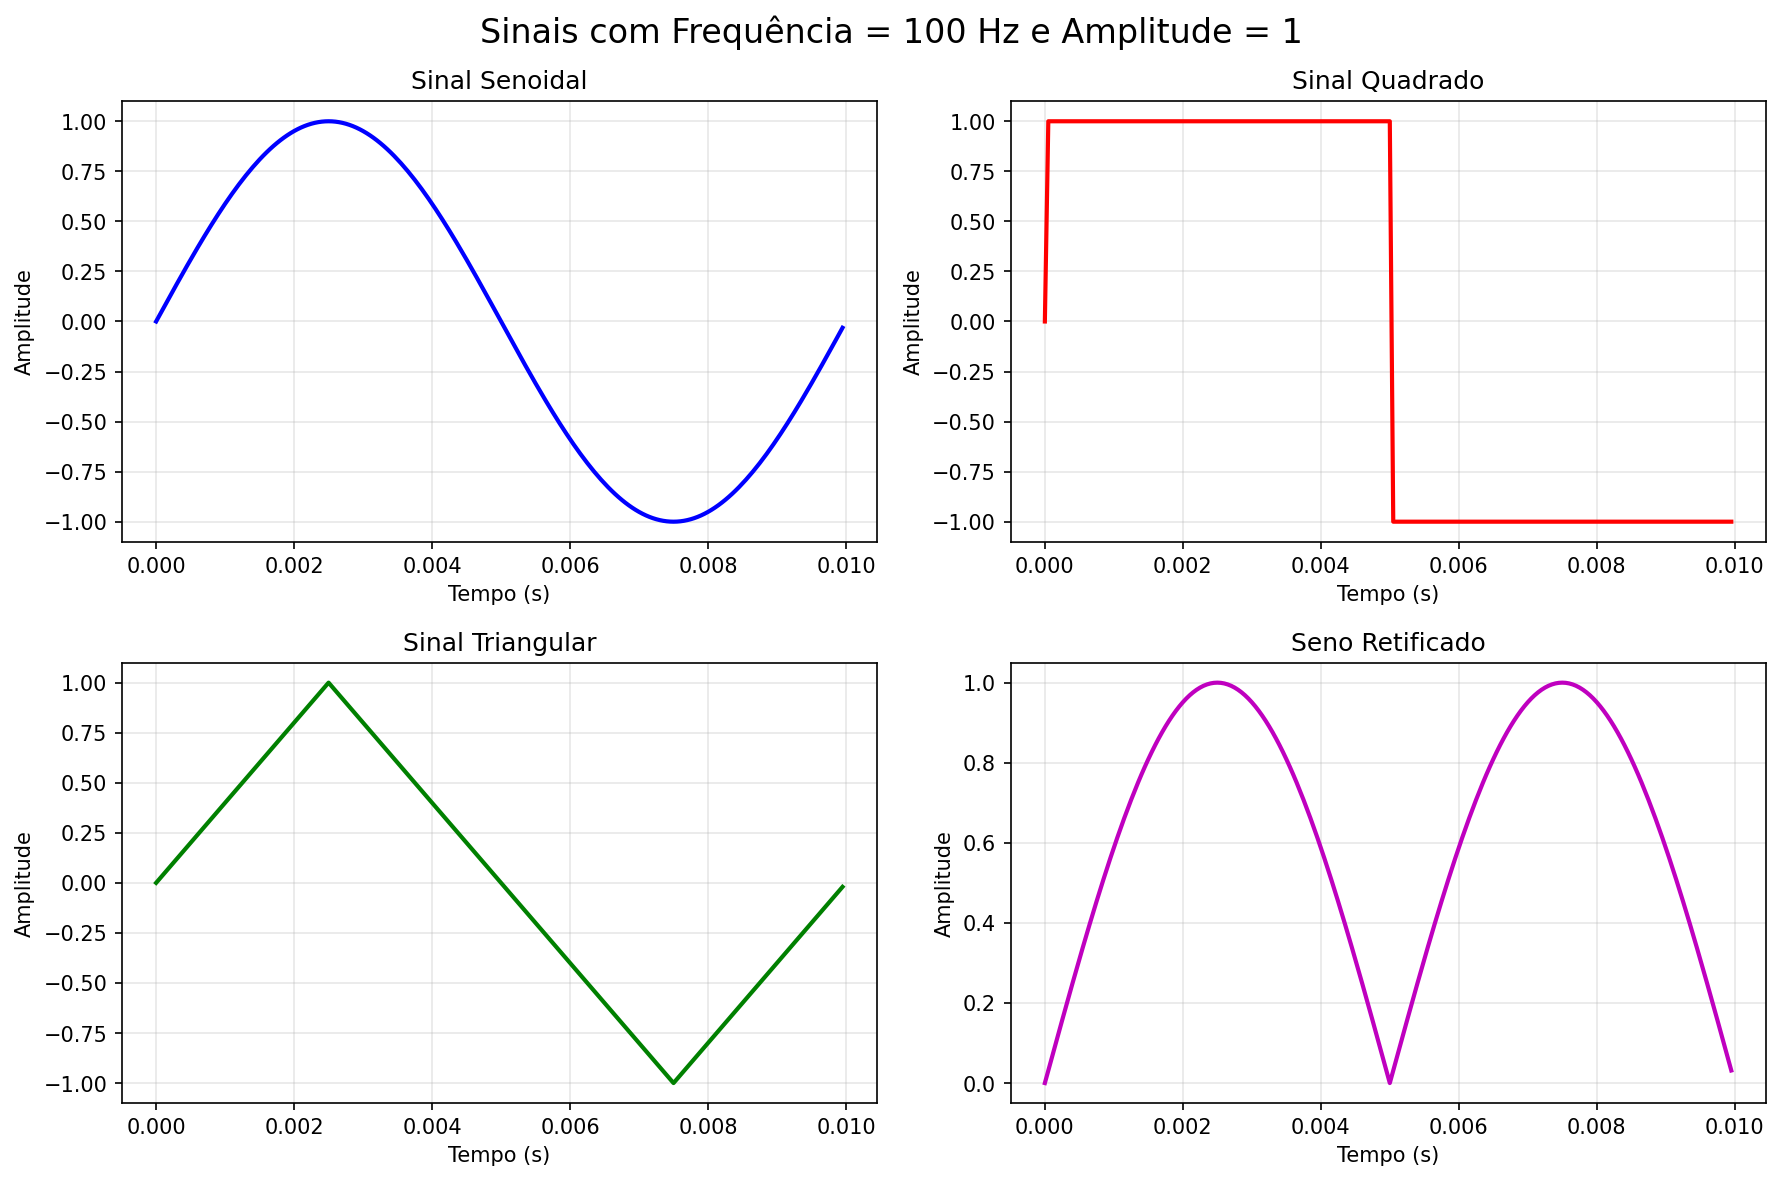
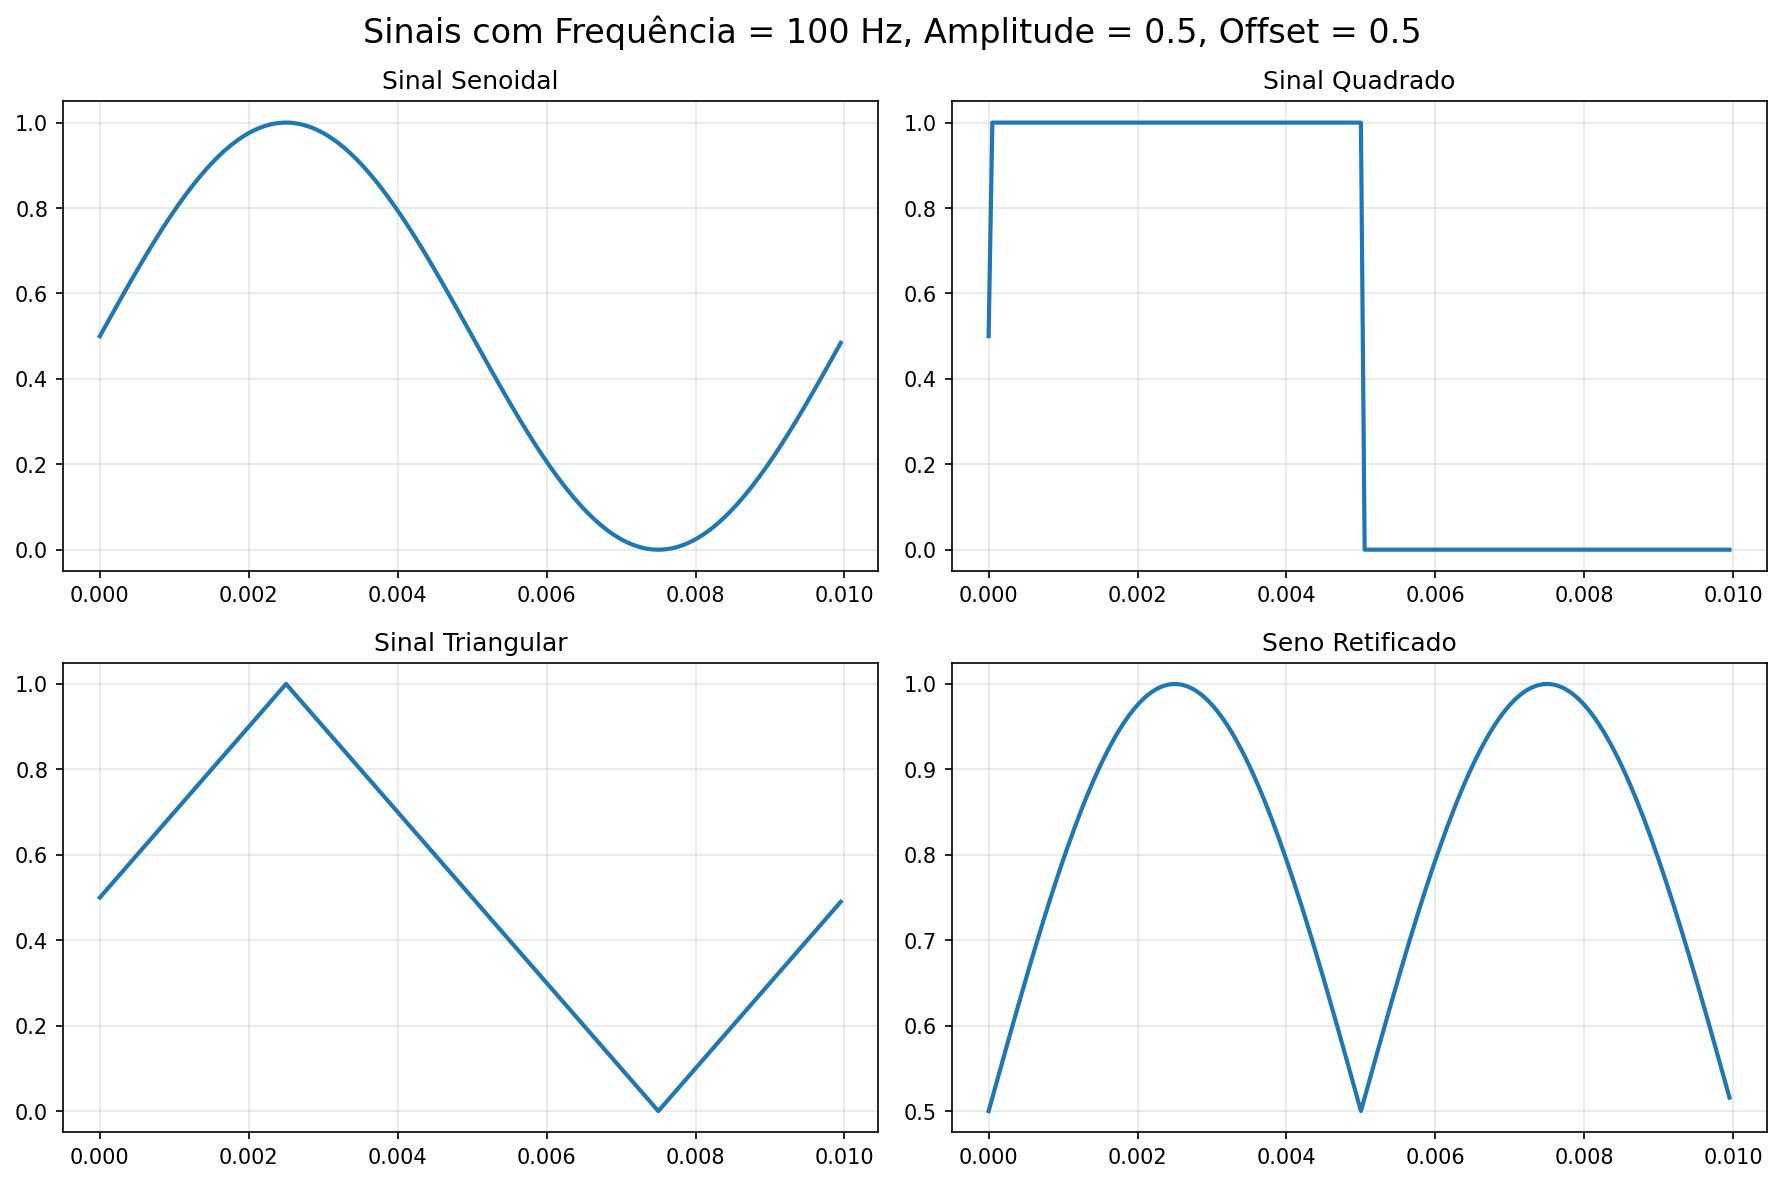
fazendo com que o sinal de ref sejá positivo

diff --git a/wave-table/main.py b/wave-table/main.py
@@ -1,33 +1,16 @@
 import numpy as np
 import matplotlib.pyplot as plt
 
-freq = 100  # Frequencia do sinal gerado
-amplitude = 1
-fs = 20 * (10**3) # Frequência de amostragem (vai ser igual a freq de controle) 
-duracao = 1  
-t = np.linspace(0, duracao/freq, int(fs/freq), endpoint=False)
-
-print(f"Gerando sinais com frequência: {freq} Hz")
-print(f"Amplitude: {amplitude}")
-print(f"Número de amostras por período: {len(t)}")
-
-
-sinal_seno = amplitude * np.sin(2 * np.pi * freq * t)
-sinal_quadrado = amplitude * np.sign(np.sin(2 * np.pi * freq * t))
-sinal_triangular = (2 * amplitude / np.pi) * np.arcsin(np.sin(2 * np.pi * freq * t))
-sinal_seno_retificado = amplitude * np.abs(np.sin(2 * np.pi * freq * t))
-
 def salvar_array_c(nome_arquivo, array, nome_variavel="data"):
     """
-    Salva um array numpy no formato C (array de arrays)
+    Salva um array numpy no formato C (array de floats)
     """
     with open(nome_arquivo, 'w') as f:
         f.write(f"// Array: {nome_variavel}\n")
         f.write(f"// Tamanho: {len(array)}\n")
         f.write(f"const float {nome_variavel}[{len(array)}] = {{\n")
         
-        # Escreve os valores formatados
-        for i in range(0, len(array), 5):  # 5 valores por linha
+        for i in range(0, len(array), 5):
             linha = array[i:i+5]
             valores_formatados = [f"{val:.6f}f" for val in linha]
             f.write("    " + ", ".join(valores_formatados))
@@ -38,35 +21,54 @@ def salvar_array_c(nome_arquivo, array, nome_variavel="data"):
         
         f.write("};\n")
 
+freq = 100
+amplitude = 0.5
+offset = 0.5     # ======= OFFSET =========
+
+fs = 20 * (10**3)
+duracao = 1
+t = np.linspace(0, duracao / freq, int(fs / freq), endpoint=False)
+
+print(f"Gerando sinais com frequência: {freq} Hz")
+print(f"Amplitude: {amplitude}")
+print(f"Número de amostras por período: {len(t)}")
+
+# Sinais antes do offset
+sinal_seno = amplitude * np.sin(2 * np.pi * freq * t)
+sinal_quadrado = amplitude * np.sign(np.sin(2 * np.pi * freq * t))
+sinal_triangular = (2 * amplitude / np.pi) * np.arcsin(np.sin(2 * np.pi * freq * t))
+sinal_seno_retificado = amplitude * np.abs(np.sin(2 * np.pi * freq * t))
+
+# ===== APLICANDO OFFSET =====
+sinal_seno += offset
+sinal_quadrado += offset
+sinal_triangular += offset
+sinal_seno_retificado += offset
+
+# Salvando
 salvar_array_c('sinal_seno_c.txt', sinal_seno, "sinal_seno")
 salvar_array_c('sinal_quadrado_c.txt', sinal_quadrado, "sinal_quadrado")
 salvar_array_c('sinal_triangular_c.txt', sinal_triangular, "sinal_triangular")
 salvar_array_c('sinal_seno_retificado_c.txt', sinal_seno_retificado, "sinal_seno_retificado")
 
-
+# Plotagem
 fig, axes = plt.subplots(2, 2, figsize=(12, 8))
-fig.suptitle(f'Sinais com Frequência = {freq} Hz e Amplitude = {amplitude}', fontsize=16)
+fig.suptitle(f'Sinais com Frequência = {freq} Hz, Amplitude = {amplitude}, Offset = {offset}', fontsize=16)
 
-
-axes[0,0].plot(t, sinal_seno, 'b-', linewidth=2)
+axes[0,0].plot(t, sinal_seno, linewidth=2)
 axes[0,0].set_title('Sinal Senoidal')
-axes[0,0].set_xlabel('Tempo (s)')
-axes[0,0].set_ylabel('Amplitude')
 axes[0,0].grid(True, alpha=0.3)
-axes[0,1].plot(t, sinal_quadrado, 'r-', linewidth=2)
+
+axes[0,1].plot(t, sinal_quadrado, linewidth=2)
 axes[0,1].set_title('Sinal Quadrado')
-axes[0,1].set_xlabel('Tempo (s)')
-axes[0,1].set_ylabel('Amplitude')
 axes[0,1].grid(True, alpha=0.3)
-axes[1,0].plot(t, sinal_triangular, 'g-', linewidth=2)
+
+axes[1,0].plot(t, sinal_triangular, linewidth=2)
 axes[1,0].set_title('Sinal Triangular')
-axes[1,0].set_xlabel('Tempo (s)')
-axes[1,0].set_ylabel('Amplitude')
 axes[1,0].grid(True, alpha=0.3)
-axes[1,1].plot(t, sinal_seno_retificado, 'm-', linewidth=2)
+
+axes[1,1].plot(t, sinal_seno_retificado, linewidth=2)
 axes[1,1].set_title('Seno Retificado')
-axes[1,1].set_xlabel('Tempo (s)')
-axes[1,1].set_ylabel('Amplitude')
 axes[1,1].grid(True, alpha=0.3)
 
 plt.tight_layout()
